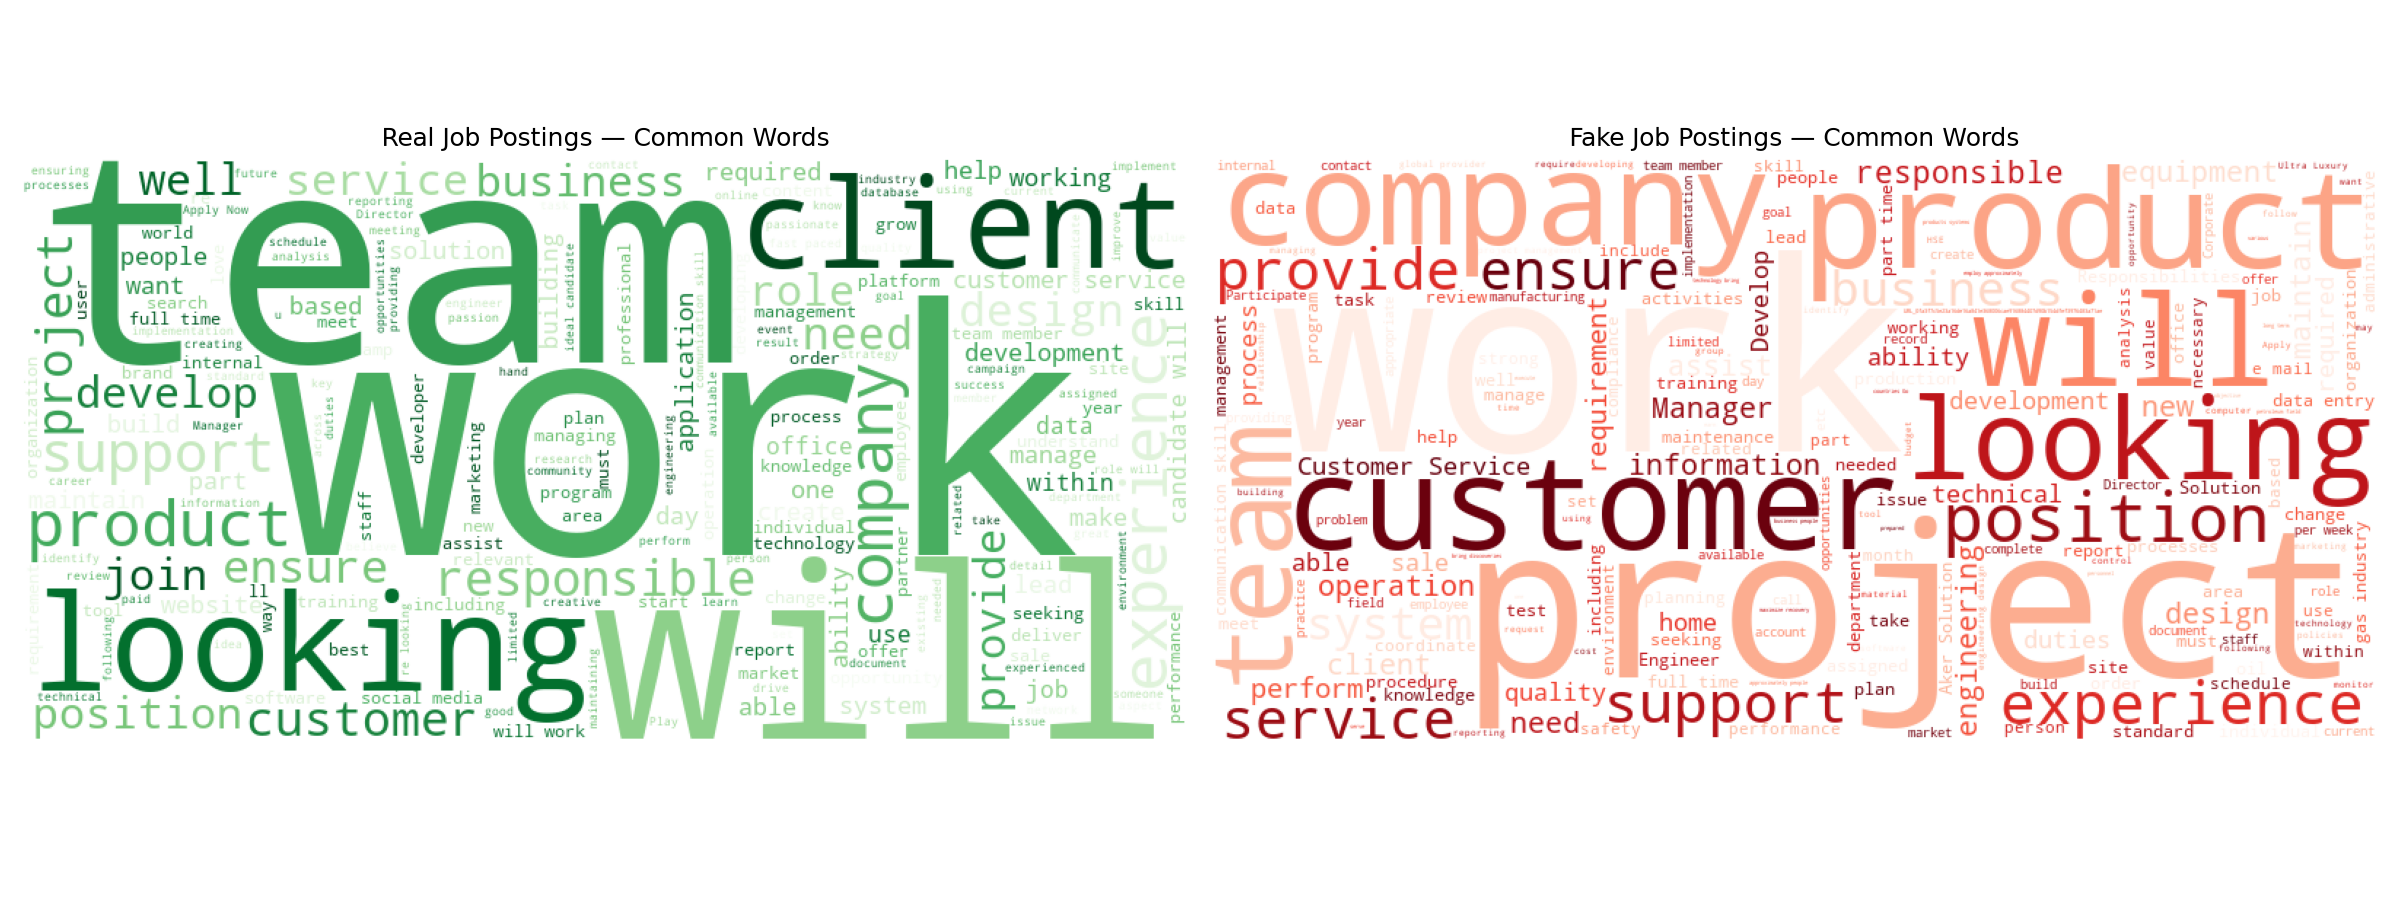
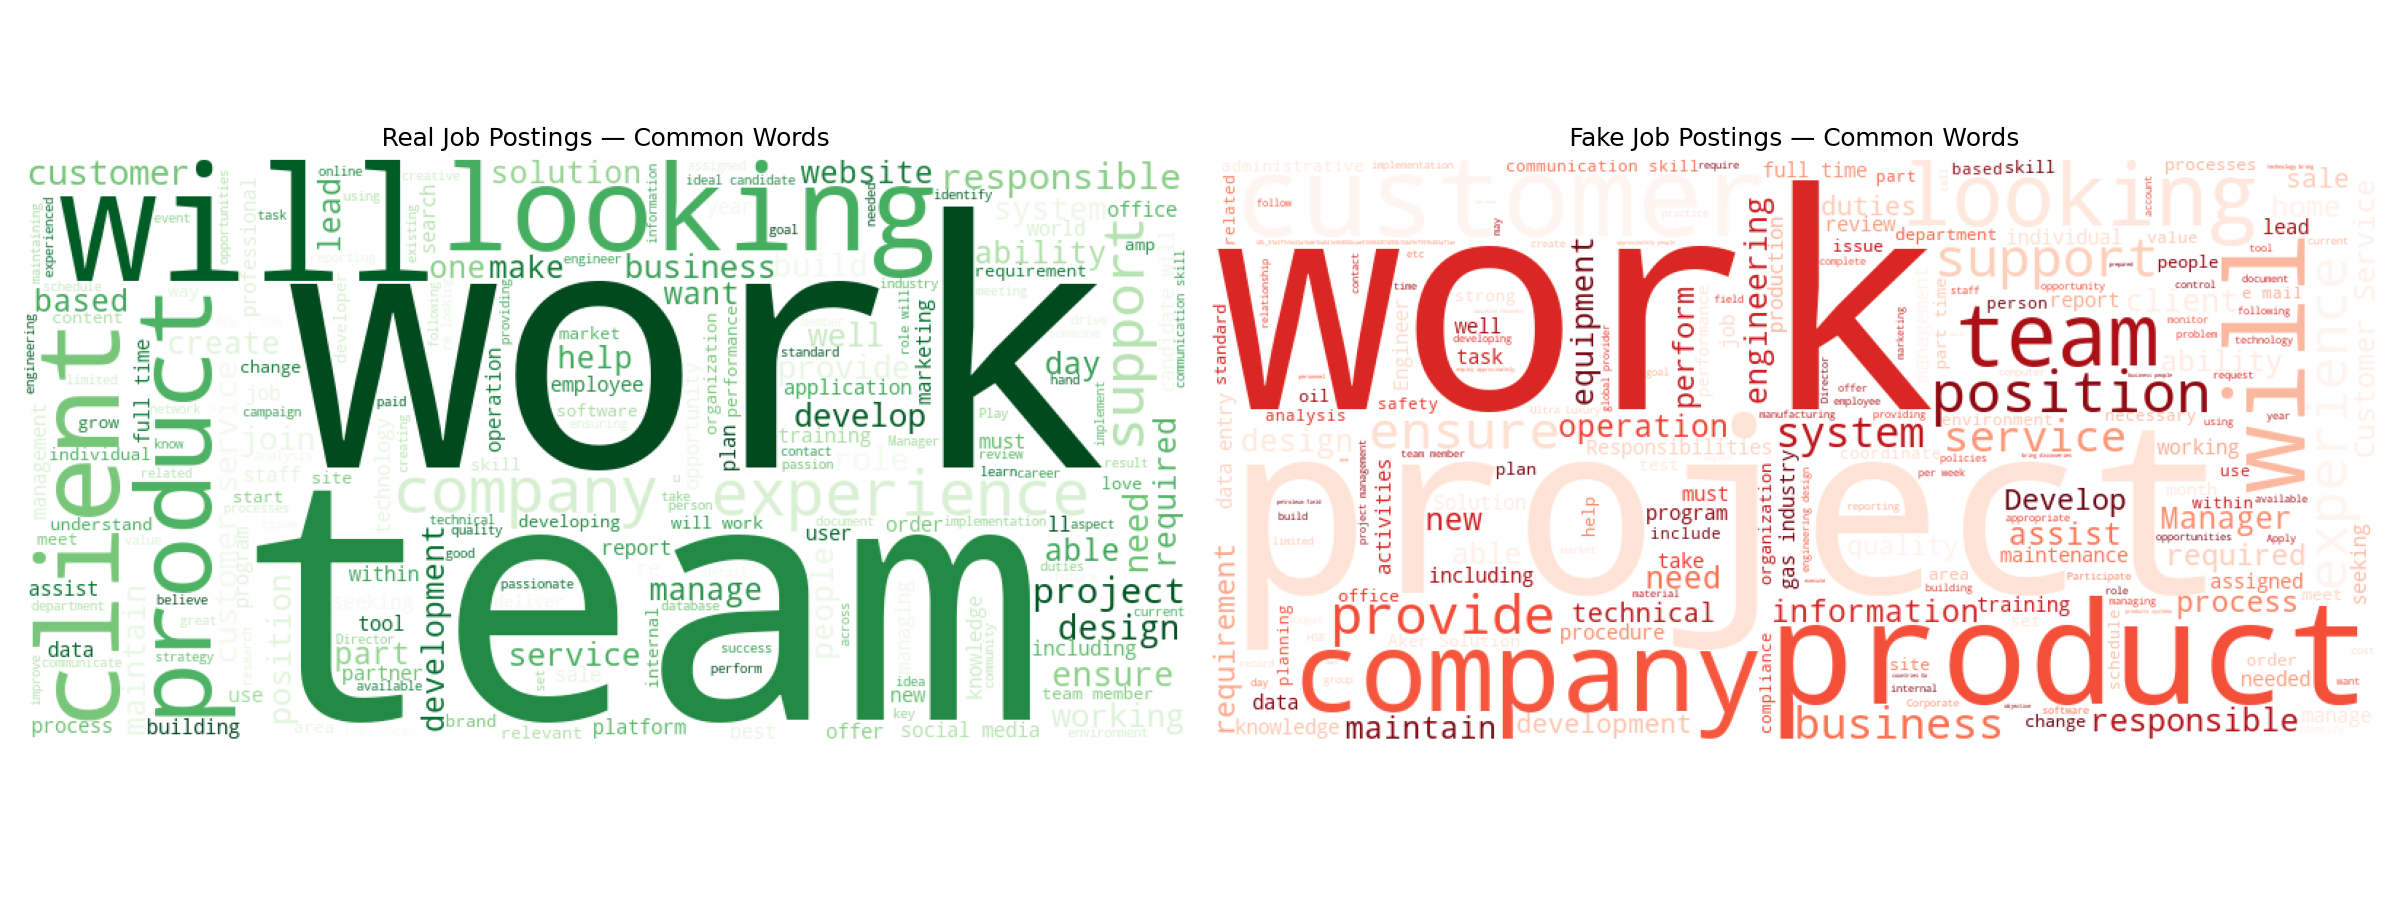
Polished EDA with comments

diff --git a/README.md b/README.md
@@ -1,1 +1,14 @@
-# Fake-Job-Postings
+## Key EDA Findings
+
+| # | Finding | Why It Matters |
+|---|---|---|
+| 1 | **~4.8% of postings are fake** (17,880 total) | Severe class imbalance → accuracy is misleading; F1-score used instead |
+| 2 | **No company profile → 17.7% fake rate** vs 1.9% when present | Omission of structured fields is a stronger signal than text content alone |
+| 3 | **No company logo → 15.9% fake rate** vs 2.0% when present | Scammers skip legitimacy markers; *what's absent* predicts fraud |
+| 4 | **Description length barely differs** (real: 1,221 chars, fake: 1,155) | Text *content* matters far more than length for classification |
+| 5 | **Fake postings cluster in Oil & Energy, Admin, Engineering roles** | Scammers target high-prestige or high-desperation job seekers |
+
+These findings directly shaped the model design:
+- SMOTE used to handle class imbalance
+- Structured features (has_logo, has_company_profile) included alongside TF-IDF text features
+- F1-score (fake class) used as the primary evaluation metric, not accuracy